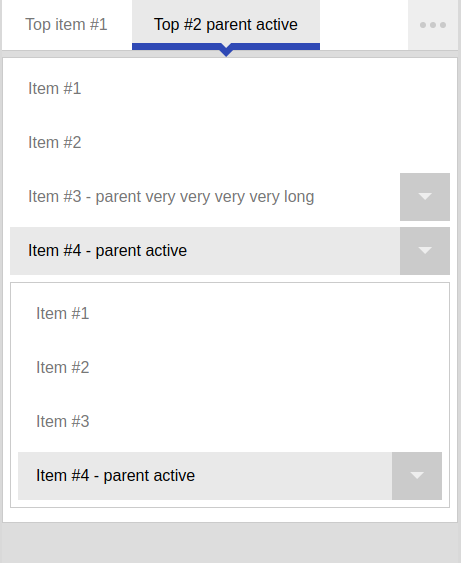
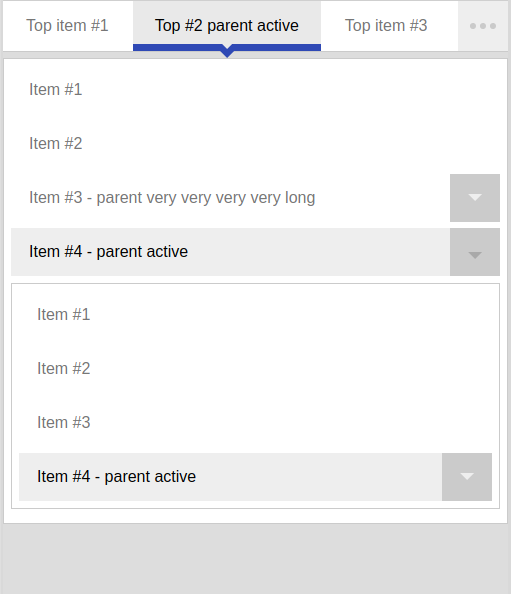
Styles update. Readme update.

diff --git a/dots-menu.css b/dots-menu.css
@@ -72,13 +72,17 @@
     .dots-menu > .nav-item { position: static; }
     .dots-menu ul .nav-item:hover > ul { display: none; }
     .dots-menu ul { width: 100%; }
+    .dots-menu ul li.active > .nav-link { background-color: #eee; color: #000; }
+    .dots-menu ul li:hover > .nav-link { background-color: #e9e9e9; }
     .dots-menu ul .nav-item.nav-item-parent > .nav-link { position: relative; padding: 12px 50px 12px 18px; }
     .dots-menu ul .nav-item.nav-item-parent > .nav-link:before { content: ''; display: block; border: 0; width: 50px; height: 100%; padding: 0; position: absolute; left: auto; right: 0; bottom: auto; top: 7px; background-color: #cbcbcb; }
-    .dots-menu ul .nav-item.nav-item-parent > .nav-link:after { content: ''; display: block;  width: 0; height: 0; border-style: solid; border-width: 7px 7px 0 7px; border-color: #eee transparent transparent transparent; position: absolute; left: auto; right: 18px; bottom: auto; top: 50%; margin-top: -4px; }
+    .dots-menu ul .nav-item.nav-item-parent > .nav-link:after { content: ''; display: block;  width: 0; height: 0; border-style: solid; border-width: 7px 7px 0 7px; border-color: #eee transparent transparent transparent; position: absolute; left: auto; right: 18px; bottom: auto; top: 50%; margin-top: -4px; transition: margin-top 300ms, border-top-color 300ms; }
     .dots-menu ul .nav-item.nav-item-parent:hover > .nav-link:before { bottom: auto; top: 7px; }
     .dots-menu ul .nav-item.nav-item-parent:hover > :after { left: auto; right: 18px; bottom: auto; top: 50%; }
     .dots-menu ul .nav-item.nav-item-parent:hover:before,
     .dots-menu ul .nav-item.nav-item-parent:hover:after { display: none; }
+
+    .dots-menu ul .nav-item.nav-item-parent.nav-item-parent-visible > .nav-link:after { margin-top: 0; border-top-color: #a9a9a9; }
 
     .dots-menu ul ul { position: static; }
     .dots-menu.nav-item-right-drop { position: static; }
@@ -89,6 +93,7 @@
 
     .dots-menu .nav-item-hidden { position: fixed; top: -300px; left: -300px; }
     .dots-menu .nav-item-visible { display: block !important; }
+    .dots-menu .nav-item-parent-visible > ul { display: block !important; }
 
 }
 

diff --git a/dots-menu.js b/dots-menu.js
@@ -1,6 +1,6 @@
 /**
  * DotsMenu https://github.com/andchir/dots-menu
- * @version 1.0.0beta
+ * @version 1.0.0
  * @author Andchir <andchir@gmail.com>
  * @license: MIT
  */
@@ -100,9 +100,8 @@
                                 || clientX < elRect.width - 50) {
                                     return;
                             }
-                            console.log('OPEN');
                             e.preventDefault();
-                            dropMenu.classList.toggle('nav-item-visible');
+                            e.target.parentNode.classList.toggle('nav-item-parent-visible');
                         });
                     }
                 });
@@ -122,7 +121,6 @@
          */
         this.onResize = function () {
             var elRect, liFirstlevelArr, menuParentContainer, dotsMenu, dotsMenuDrop, menuRect,
-                windowWidth = window.innerWidth,
                 menuArr = document.querySelectorAll('.dots-menu:not(.nav-item-right-drop)');
             menuArr.forEach(function(menuEl) {
                 menuRect = menuEl.getBoundingClientRect();
@@ -149,7 +147,7 @@
                         if (!document.getElementById('drop-menu-item-' + index)) {
                             self.append(dotsMenuDrop, self.createElement('li', {
                                 id: 'drop-menu-item-' + index,
-                                className: 'nav-item',
+                                className: liEl.className.replace('nav-item-hidden', ''),
                                 innerHTML: liEl.innerHTML
                             }));
                         }

diff --git a/readme.md b/readme.md
@@ -1,7 +1,7 @@
 DotsMenu
 ========
 
-- Latest version: 1.0.0beta
+- Latest version: 1.0.0
 - Licence: MIT
 
 Demo
@@ -15,3 +15,55 @@ Screenshots
 ![DropMenu - screenshot #1](https://raw.githubusercontent.com/andchir/dots-menu/master/screenshots/screenshot01.png?raw=true "DropMenu - screenshot #1")
 
 ![DropMenu - screenshot #2](https://raw.githubusercontent.com/andchir/dots-menu/master/screenshots/screenshot02.png?raw=true "DropMenu - screenshot #2")
+
+
+Usage
+-----
+
+~~~
+<link href="dots-menu.css" rel="stylesheet">
+<script src="dots-menu.js"></script>
+<script>
+    var dotsMenu = new DotsMenu();
+</script>
+~~~
+
+~~~
+<div class="dots-menu-container">
+    <ul class="dots-menu">
+        <li class="nav-item">
+            <a href="#1" class="nav-link">
+                Top item #1
+            </a>
+        </li>
+        <li class="nav-item active">
+            <a href="#2" class="nav-link">
+                Top #2 parent active
+            </a>
+            <ul>
+                <li class="nav-item">
+                    <a href="#1-1" class="nav-link">
+                        Item #1
+                    </a>
+                </li>
+                <li class="nav-item">
+                    <a href="#1-2" class="nav-link">
+                        Item #2
+                    </a>
+                </li>
+            </ul>
+        </li>
+    </ul>
+</div>
+~~~
+
+Class "dots-menu-fluid" for full width:
+~~~
+<div class="dots-menu-container">
+    <ul class="dots-menu dots-menu-fluid">
+        ...
+    </ul>
+</div>
+~~~
+
+
